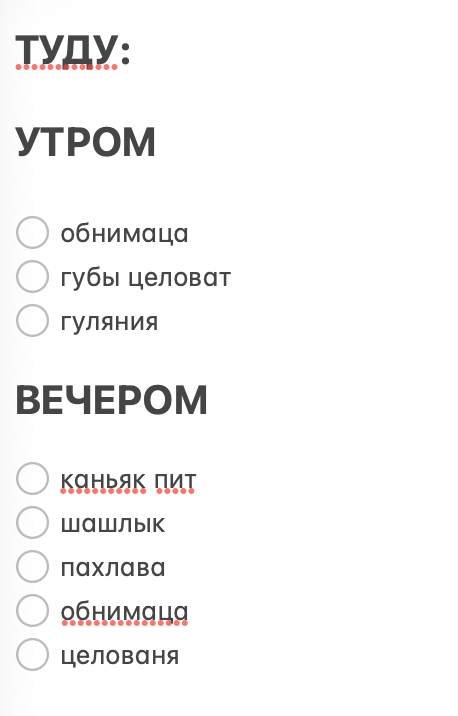
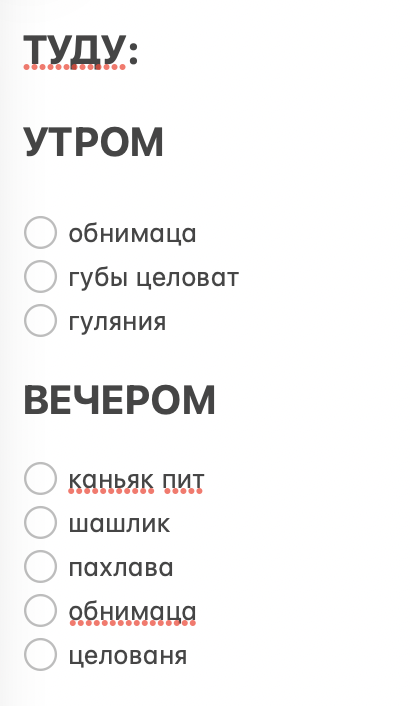
Update plan.png payoff image

diff --git a/index.html b/index.html
@@ -7,7 +7,7 @@
     <link rel="preconnect" href="https://fonts.googleapis.com">
     <link rel="preconnect" href="https://fonts.gstatic.com" crossorigin>
     <link rel="stylesheet" href="https://fonts.googleapis.com/css2?family=Nunito:wght@400;600;700;800&display=swap">
-    <link rel="stylesheet" href="styles.css?v=31">
+    <link rel="stylesheet" href="styles.css?v=32">
 </head>
 <body>
     <div class="map-container">
@@ -23,7 +23,7 @@
     <canvas id="fx" class="fx-layer"></canvas>
 
     <!-- Payoff card shown on arrival in Yerevan -->
-    <img class="plan-card" id="planCard" src="images/plan.png" alt="Plan">
+    <img class="plan-card" id="planCard" src="images/plan.png?v=32" alt="Plan">
 
 
     <!-- Countdown intro: shown while scrolling through the first stretch of the page -->
@@ -87,7 +87,7 @@
     <script src="https://cdnjs.cloudflare.com/ajax/libs/d3/7.9.0/d3.min.js"></script>
     <script src="https://cdnjs.cloudflare.com/ajax/libs/topojson/3.0.2/topojson.min.js"></script>
     <script src="confetti.browser.min.js"></script>
-    <script src="map.js?v=31"></script>
-    <script src="script.js?v=31"></script>
+    <script src="map.js?v=32"></script>
+    <script src="script.js?v=32"></script>
 </body>
 </html>
